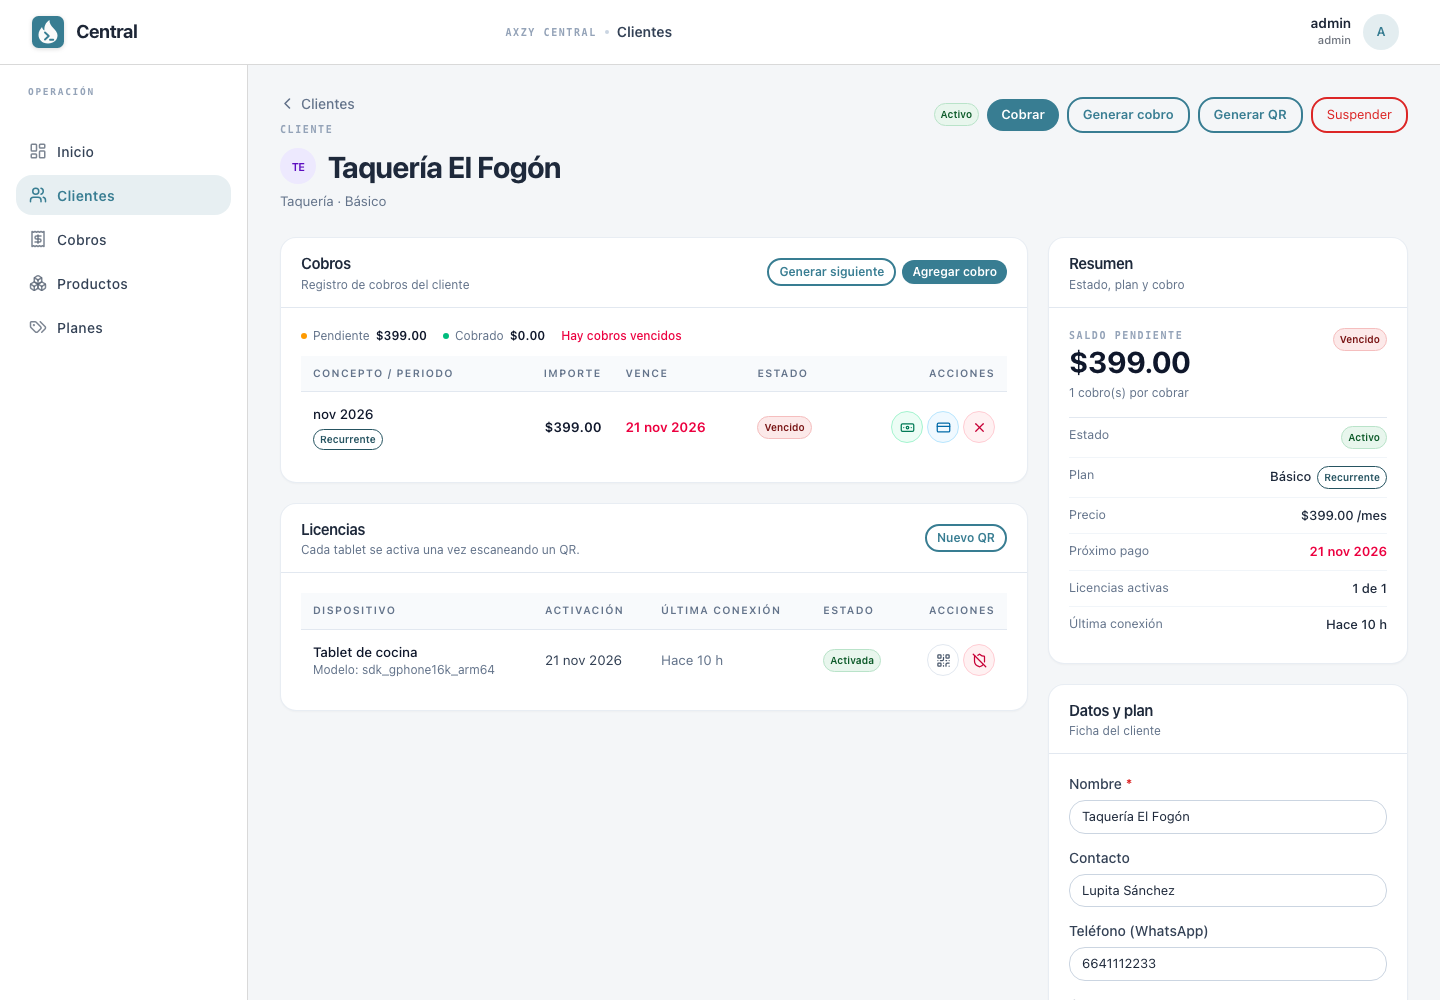
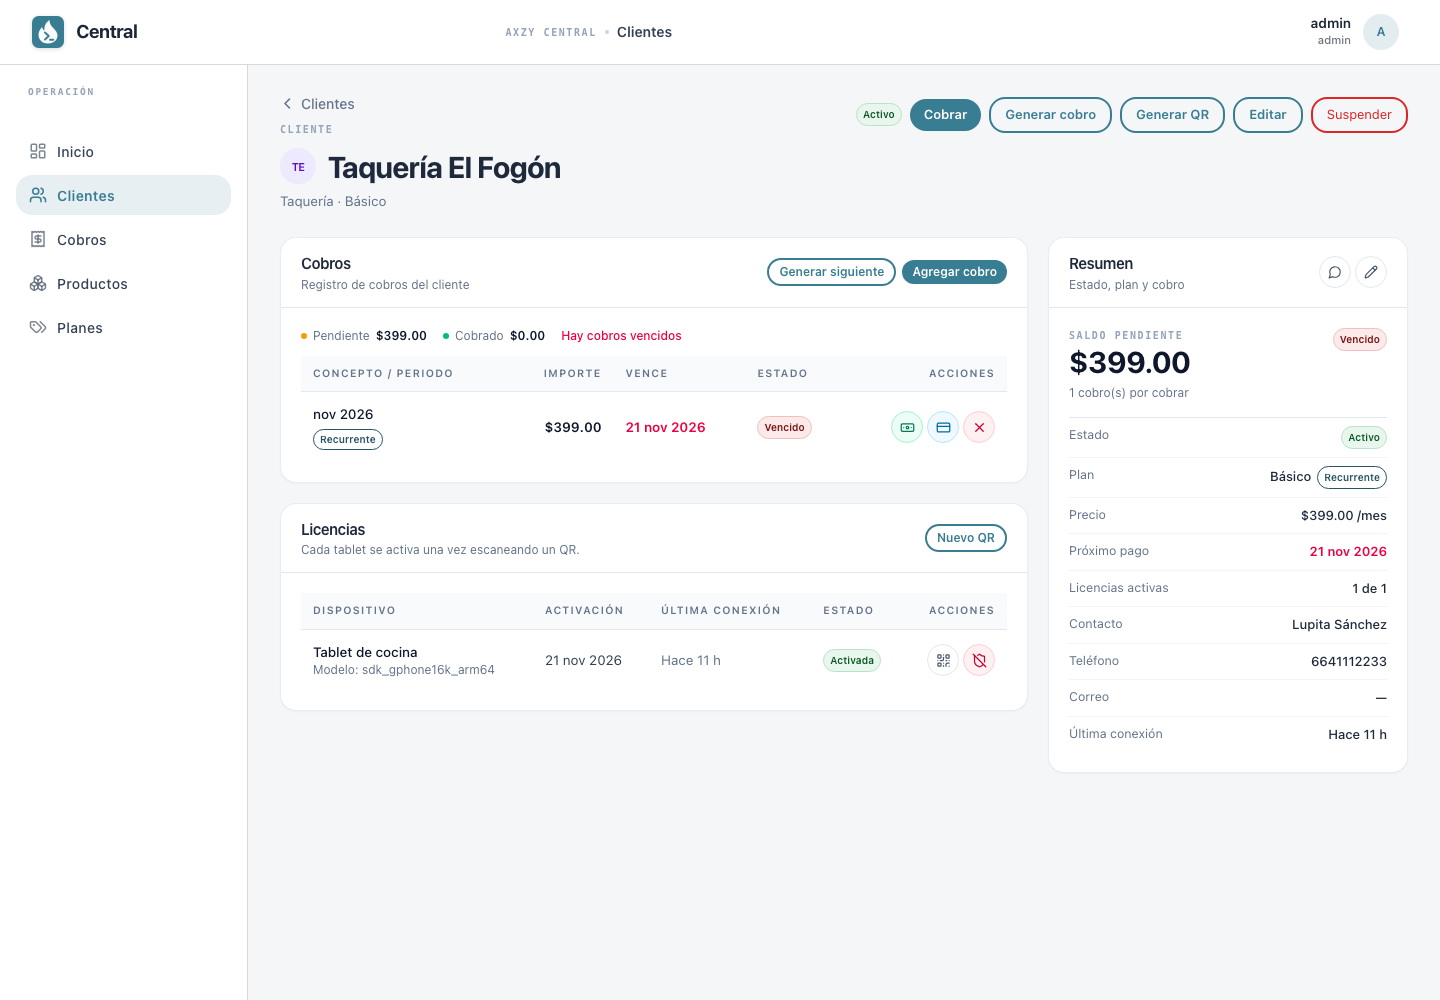
fix(web): ordena el detalle del cliente; ficha editable en diálogo
- El formulario de datos y plan sale de la columna derecha y se abre en un
  diálogo desde «Editar» o desde el resumen: se acaba el hueco enorme en la
  columna izquierda.
- La columna derecha queda solo con el Resumen (estado, plan, saldo, contacto,
  teléfono, correo y última conexión) con accesos a WhatsApp y editar.
- Cabecera con Editar junto a Cobrar/Generar cobro/QR/Suspender.
- Captura de docs actualizada.

diff --git a/web/src/pages/ClientDetail.tsx b/web/src/pages/ClientDetail.tsx
@@ -15,6 +15,7 @@ import {
   LuCreditCard,
   LuMessageCircle,
   LuPause,
+  LuPencil,
   LuPlay,
   LuPlus,
   LuQrCode,
@@ -78,6 +79,7 @@ export default function ClientDetail() {
   const [qrOpen, setQrOpen] = useState(false);
   const [qrDevice, setQrDevice] = useState<Device | null>(null);
   const [generating, setGenerating] = useState(false);
+  const [editOpen, setEditOpen] = useState(false);
 
   const load = useCallback(async () => {
     setError("");
@@ -192,6 +194,9 @@ export default function ClientDetail() {
             <ITButton variant="outlined" icon={<LuQrCode size={15} />} onClick={openNewQr}>
               Generar QR
             </ITButton>
+            <ITButton variant="outlined" icon={<LuPencil size={15} />} onClick={() => setEditOpen(true)}>
+              Editar
+            </ITButton>
             <ITButton
               color={suspended ? "primary" : "danger"}
               variant={suspended ? "filled" : "outlined"}
@@ -218,44 +223,7 @@ export default function ClientDetail() {
           </div>
 
           <aside className="flex min-w-0 flex-col gap-5 xl:sticky xl:top-6">
-            <SummaryCard client={client} />
-            <InfoCard key={client.plan?.id ?? "no-plan"} client={client} plans={plans} run={run} />
-
-            <Card title="Acciones" subtitle="Atajos rápidos">
-              <div className="flex flex-col gap-2">
-                <ITButton className="w-full justify-center" icon={<LuWallet size={15} />} onClick={() => setQuickOpen(true)}>
-                  Cobrar
-                </ITButton>
-                <ITButton
-                  variant="outlined"
-                  className="w-full justify-center"
-                  icon={<LuRefreshCw size={15} />}
-                  onClick={() => void generateNext()}
-                  disabled={generating || !client.plan}
-                  title={!client.plan ? "Asigna un plan al cliente para generar cobros" : undefined}
-                >
-                  {generating ? "Generando…" : "Generar siguiente cobro"}
-                </ITButton>
-                <ITButton
-                  variant="outlined"
-                  className="w-full justify-center"
-                  icon={<LuMessageCircle size={15} />}
-                  onClick={() => void copyWhatsapp()}
-                  disabled={!client.phone}
-                  title={!client.phone ? "Agrega un teléfono al cliente para WhatsApp" : "Copia un enlace de WhatsApp con el estado de cuenta"}
-                >
-                  Copiar WhatsApp
-                </ITButton>
-                <ITButton variant="outlined" className="w-full justify-center" icon={<LuQrCode size={15} />} onClick={openNewQr}>
-                  Nuevo QR de activación
-                </ITButton>
-              </div>
-              {!client.plan && (
-                <p className="mt-3 text-xs text-slate-500 dark:text-slate-400">
-                  Asigna un plan en «Datos y plan» para generar cobros automáticos. Los cobros manuales ya están disponibles.
-                </p>
-              )}
-            </Card>
+            <SummaryCard client={client} onEdit={() => setEditOpen(true)} onWhatsapp={() => void copyWhatsapp()} />
           </aside>
         </div>
       )}
@@ -281,6 +249,10 @@ export default function ClientDetail() {
       )}
 
       {client && addOpen && <NewPaymentDialog client={client} run={run} onClose={() => setAddOpen(false)} />}
+
+      {client && (
+        <EditClientDialog client={client} plans={plans} run={run} isOpen={editOpen} onClose={() => setEditOpen(false)} />
+      )}
 
       {client && (
         <ITConfirmDialog
@@ -321,7 +293,7 @@ function SummaryRow({ label, children }: { label: string; children: ReactNode })
   );
 }
 
-function SummaryCard({ client }: { client: Detail }) {
+function SummaryCard({ client, onEdit, onWhatsapp }: { client: Detail; onEdit: () => void; onWhatsapp: () => void }) {
   const pending = client.payments.filter((p) => p.status === "PENDING");
   const pendingAmount = pending.reduce((sum, p) => sum + Number(p.amount), 0);
   const activeDevices = client.devices.filter((d) => d.active).length;
@@ -329,7 +301,20 @@ function SummaryCard({ client }: { client: Detail }) {
   const label = client.overdue ? "Vencido" : pending.length > 0 ? "Pendiente" : "Al corriente";
 
   return (
-    <Card title="Resumen" subtitle="Estado, plan y cobro">
+    <Card
+      title="Resumen"
+      subtitle="Estado, plan y cobro"
+      actions={
+        <div className="flex items-center gap-1">
+          <IconAction label="Copiar enlace de WhatsApp" onClick={onWhatsapp} disabled={!client.phone}>
+            <LuMessageCircle size={14} />
+          </IconAction>
+          <IconAction label="Editar datos del cliente" onClick={onEdit}>
+            <LuPencil size={14} />
+          </IconAction>
+        </div>
+      }
+    >
       <div className="flex items-start justify-between gap-3">
         <div className="min-w-0">
           <p className="axc-eyebrow text-slate-400 dark:text-slate-500">Saldo pendiente</p>
@@ -366,6 +351,9 @@ function SummaryCard({ client }: { client: Detail }) {
         <SummaryRow label="Licencias activas">
           {activeDevices} de {client.devices.length}
         </SummaryRow>
+        <SummaryRow label="Contacto">{client.contactName || "—"}</SummaryRow>
+        <SummaryRow label="Teléfono">{client.phone || "—"}</SummaryRow>
+        <SummaryRow label="Correo">{client.email || "—"}</SummaryRow>
         <SummaryRow label="Última conexión">{agoText(client.lastSeenAt)}</SummaryRow>
       </dl>
     </Card>
@@ -876,7 +864,19 @@ function DevicesCard({
 /* Datos y plan                                                        */
 /* ------------------------------------------------------------------ */
 
-function InfoCard({ client, plans, run }: { client: Detail; plans: Plan[]; run: Run }) {
+function EditClientDialog({
+  client,
+  plans,
+  run,
+  isOpen,
+  onClose,
+}: {
+  client: Detail;
+  plans: Plan[];
+  run: Run;
+  isOpen: boolean;
+  onClose: () => void;
+}) {
   const initial = {
     name: client.name,
     contactName: client.contactName ?? "",
@@ -892,33 +892,22 @@ function InfoCard({ client, plans, run }: { client: Detail; plans: Plan[]; run: 
 
   const submit = async (e: FormEvent) => {
     e.preventDefault();
-    await run(() => api("PATCH", `/clients/${client.id}`, { ...form, planId: form.planId || null }), "Cambios guardados");
+    const ok = await run(() => api("PATCH", `/clients/${client.id}`, { ...form, planId: form.planId || null }), "Cambios guardados");
+    if (ok) onClose();
   };
 
   return (
-    <Card title="Datos y plan" subtitle="Ficha del cliente">
-      <form onSubmit={submit} className="flex flex-col gap-3.5" noValidate>
-        <ITInput name="name" label="Nombre" value={form.name} onChange={(e) => setForm({ ...form, name: e.target.value })} required />
-        <ITInput
-          name="contactName"
-          label="Contacto"
-          value={form.contactName}
-          onChange={(e) => setForm({ ...form, contactName: e.target.value })}
-        />
-        <ITInput
-          name="phone"
-          label="Teléfono (WhatsApp)"
-          value={form.phone}
-          onChange={(e) => setForm({ ...form, phone: e.target.value })}
-        />
-        <ITInput
-          name="email"
-          type="email"
-          label="Correo"
-          value={form.email}
-          onChange={(e) => setForm({ ...form, email: e.target.value })}
-        />
-        <div>
+    <ITDialog isOpen={isOpen} onClose={onClose} title="Datos y plan" className="w-[min(94vw,660px)]">
+      <form onSubmit={submit} className="grid gap-4 sm:grid-cols-2" noValidate>
+        <div className="sm:col-span-2">
+          <ITInput name="name" label="Nombre" value={form.name} onChange={(e) => setForm({ ...form, name: e.target.value })} required autoFocus />
+        </div>
+        <ITInput name="contactName" label="Contacto" value={form.contactName} onChange={(e) => setForm({ ...form, contactName: e.target.value })} />
+        <ITInput name="phone" label="Teléfono (WhatsApp)" value={form.phone} onChange={(e) => setForm({ ...form, phone: e.target.value })} />
+        <div className="sm:col-span-2">
+          <ITInput name="email" type="email" label="Correo" value={form.email} onChange={(e) => setForm({ ...form, email: e.target.value })} />
+        </div>
+        <div className="sm:col-span-2">
           <ITSelect
             name="planId"
             label={`Plan de ${client.product.name}`}
@@ -944,21 +933,28 @@ function InfoCard({ client, plans, run }: { client: Detail; plans: Plan[]; run: 
             </div>
           )}
         </div>
-        <ITInput
-          name="notes"
-          type="textarea"
-          rows={2}
-          label="Notas"
-          value={form.notes}
-          onChange={(e) => setForm({ ...form, notes: e.target.value })}
-        />
-        <div className="flex items-center justify-between gap-2 border-t border-slate-100 pt-3 dark:border-slate-800">
+        <div className="sm:col-span-2">
+          <ITInput
+            name="notes"
+            type="textarea"
+            rows={2}
+            label="Notas"
+            value={form.notes}
+            onChange={(e) => setForm({ ...form, notes: e.target.value })}
+          />
+        </div>
+        <div className="flex items-center justify-between gap-2 border-t border-slate-100 pt-3 sm:col-span-2 dark:border-slate-800">
           <span className="text-xs text-slate-400 dark:text-slate-500">{dirty ? "Cambios sin guardar" : "Todo guardado"}</span>
-          <ITButton type="submit" size="sm" disabled={!dirty || form.name.trim().length < 2}>
-            Guardar cambios
-          </ITButton>
+          <div className="flex gap-2">
+            <ITButton type="button" variant="outlined" color="gray" onClick={onClose}>
+              Cancelar
+            </ITButton>
+            <ITButton type="submit" disabled={!dirty || form.name.trim().length < 2}>
+              Guardar cambios
+            </ITButton>
+          </div>
         </div>
       </form>
-    </Card>
+    </ITDialog>
   );
 }
